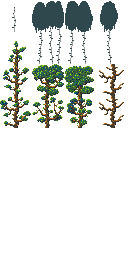
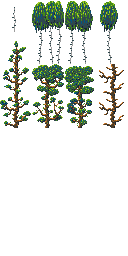
Forest sprite backup

Changed region(s): [[0.25, 0.0, 0.7188, 0.125], [0.7812, 0.0, 0.9375, 0.125]]

diff --git a/lib/game/levels/menu.js b/lib/game/levels/menu.js
@@ -1,6 +1,6 @@
 ig.module( 'game.levels.menu' )
 .requires( 'impact.image' )
 .defines(function(){
-LevelMenu=/*JSON[*/{"entities":[],"layer":[{"name":"bg","width":1,"height":1,"linkWithCollision":false,"visible":1,"tilesetName":"media/gfx/levels/sky.png","repeat":true,"preRender":true,"distance":"1.8","tilesize":32,"foreground":false,"data":[[15]]},{"name":"castle","width":30,"height":6,"linkWithCollision":false,"visible":1,"tilesetName":"media/gfx/levels/artworks.png","repeat":false,"preRender":true,"distance":"1.8","tilesize":32,"foreground":false,"data":[[0,0,0,0,0,0,0,0,0,0,0,0,0,0,0,0,0,0,0,0,0,0,0,0,0,0,0,0,0,0],[0,0,0,0,0,0,0,0,0,0,0,0,0,0,0,0,0,0,0,0,0,0,0,0,0,0,0,0,0,0],[0,0,0,0,0,0,0,0,0,0,0,0,0,0,0,0,0,0,0,0,0,0,0,0,0,0,0,0,0,0],[0,0,0,0,0,0,0,0,0,0,0,0,0,0,0,0,0,0,0,0,0,0,0,0,0,0,0,0,0,0],[0,0,0,0,0,0,0,1,2,3,4,0,0,0,0,0,0,0,0,0,0,0,0,0,0,0,0,0,0,0],[0,0,0,0,0,0,0,0,0,0,0,0,0,0,0,0,0,0,0,0,0,0,0,0,0,0,0,0,0,0]]},{"name":"bg_tree_sky","width":30,"height":6,"linkWithCollision":false,"visible":1,"tilesetName":"media/gfx/levels/sky.png","repeat":true,"preRender":true,"distance":"1.8","tilesize":32,"foreground":false,"data":[[1,1,1,1,1,1,1,1,1,1,1,1,1,1,1,1,1,1,1,1,1,1,1,1,1,1,1,1,1,1],[5,5,6,5,5,6,5,5,6,6,5,6,5,6,5,5,5,6,6,6,5,5,5,5,5,6,5,6,5,5],[15,15,15,15,15,15,15,15,15,15,15,15,15,15,15,15,15,15,15,15,15,15,15,15,15,15,15,15,15,15],[15,15,15,15,15,15,15,15,15,15,15,15,15,15,15,15,15,15,15,15,15,15,15,15,15,15,15,15,15,15],[10,9,9,10,9,10,9,9,9,10,9,10,9,9,9,10,9,9,10,9,9,10,9,9,9,9,10,10,10,9],[13,13,13,13,13,13,13,13,13,13,13,13,13,13,13,13,13,13,13,13,13,13,13,13,13,13,13,13,13,13]]},{"name":"clouds","width":30,"height":6,"linkWithCollision":false,"visible":1,"tilesetName":"media/gfx/levels/sky.png","repeat":false,"preRender":true,"distance":"1.5","tilesize":32,"foreground":false,"data":[[0,0,0,0,0,0,0,0,0,0,0,0,0,0,0,0,0,0,0,0,0,0,0,0,0,0,0,0,0,0],[0,0,0,0,0,0,0,0,0,0,0,0,0,0,0,0,0,0,0,0,0,0,0,0,0,0,0,0,0,0],[0,0,0,0,0,0,3,0,0,0,0,0,0,0,0,0,0,7,8,0,0,0,4,0,0,0,0,0,0,0],[0,7,8,0,0,0,0,0,0,4,0,0,0,0,0,0,0,0,0,0,0,0,0,0,0,0,0,3,0,0],[0,0,0,0,0,0,0,0,0,0,0,0,0,0,0,0,0,0,0,0,0,0,0,0,0,0,0,0,0,0],[0,0,0,0,0,0,0,0,0,0,0,0,0,0,0,0,0,0,0,0,0,0,0,0,0,0,0,0,0,0]]},{"name":"trees_back","width":30,"height":6,"linkWithCollision":false,"visible":true,"tilesetName":"media/gfx/levels/forest_birch.png","repeat":false,"preRender":true,"distance":"1.2","tilesize":32,"foreground":false,"data":[[0,0,0,0,0,0,0,0,0,0,0,0,0,0,0,0,0,0,0,0,0,0,0,0,0,0,0,0,0,0],[0,0,0,0,0,0,0,0,0,0,0,0,0,0,0,0,0,0,0,0,0,0,0,0,0,0,0,0,0,0],[0,0,0,0,0,0,0,0,0,0,0,0,0,0,0,0,0,0,0,0,0,0,0,0,0,0,0,0,0,0],[0,0,0,0,0,0,0,0,0,0,0,0,0,0,0,0,0,0,0,0,0,0,0,0,0,0,0,0,0,0],[0,0,0,5,0,0,0,10,0,0,0,0,0,0,0,0,0,0,0,0,0,0,0,0,0,0,0,0,0,0],[0,0,0,13,10,0,0,14,0,0,0,0,0,0,0,0,0,0,0,0,0,0,0,0,0,0,0,0,0,0]]},{"name":"Trees","width":30,"height":6,"linkWithCollision":false,"visible":1,"tilesetName":"media/gfx/levels/forest_birch.png","repeat":false,"preRender":true,"distance":"0.7","tilesize":32,"foreground":false,"data":[[0,0,0,0,0,0,0,0,0,0,0,0,0,0,0,0,0,0,0,0,0,0,0,0,0,0,0,0,0,0],[0,0,0,0,0,0,0,0,0,0,0,0,0,0,0,0,0,0,0,0,0,0,0,0,0,0,0,0,0,0],[0,0,0,0,0,0,0,0,0,0,0,5,0,0,0,0,0,0,0,0,0,0,0,0,0,0,0,0,0,0],[0,10,0,0,0,0,0,0,0,0,0,9,0,10,0,0,0,0,0,0,0,0,0,0,0,0,0,0,0,0],[0,14,0,0,0,11,0,0,0,0,10,14,0,15,10,0,0,0,0,0,0,0,0,0,0,0,0,0,0,0],[0,16,0,0,0,16,0,0,0,0,14,13,11,16,14,0,0,0,0,0,0,0,0,0,0,0,0,0,0,0]]}]}/*]JSON*/;
-LevelMenuResources=[new ig.Image('media/gfx/levels/sky.png'), new ig.Image('media/gfx/levels/artworks.png'), new ig.Image('media/gfx/levels/sky.png'), new ig.Image('media/gfx/levels/sky.png'), new ig.Image('media/gfx/levels/forest_birch.png'), new ig.Image('media/gfx/levels/forest_birch.png')];
+LevelMenu=/*JSON[*/{"entities":[],"layer":[{"name":"bg","width":1,"height":1,"linkWithCollision":false,"visible":1,"tilesetName":"media/gfx/levels/sky.png","repeat":true,"preRender":true,"distance":"1.8","tilesize":32,"foreground":false,"data":[[15]]},{"name":"castle","width":30,"height":6,"linkWithCollision":false,"visible":1,"tilesetName":"media/gfx/levels/artworks.png","repeat":false,"preRender":true,"distance":"1.8","tilesize":32,"foreground":false,"data":[[0,0,0,0,0,0,0,0,0,0,0,0,0,0,0,0,0,0,0,0,0,0,0,0,0,0,0,0,0,0],[0,0,0,0,0,0,0,0,0,0,0,0,0,0,0,0,0,0,0,0,0,0,0,0,0,0,0,0,0,0],[0,0,0,0,0,0,0,0,0,0,0,0,0,0,0,0,0,0,0,0,0,0,0,0,0,0,0,0,0,0],[0,0,0,0,0,0,0,0,0,0,0,0,0,0,0,0,0,0,0,0,0,0,0,0,0,0,0,0,0,0],[0,0,0,0,0,0,0,1,2,3,4,0,0,0,0,0,0,0,0,0,0,0,0,0,0,0,0,0,0,0],[0,0,0,0,0,0,0,0,0,0,0,0,0,0,0,0,0,0,0,0,0,0,0,0,0,0,0,0,0,0]]},{"name":"bg_tree_sky","width":30,"height":6,"linkWithCollision":false,"visible":1,"tilesetName":"media/gfx/levels/sky.png","repeat":true,"preRender":true,"distance":"1.8","tilesize":32,"foreground":false,"data":[[1,1,1,1,1,1,1,1,1,1,1,1,1,1,1,1,1,1,1,1,1,1,1,1,1,1,1,1,1,1],[5,5,6,5,5,6,5,5,6,6,5,6,5,6,5,5,5,6,6,6,5,5,5,5,5,6,5,6,5,5],[15,15,15,15,15,15,15,15,15,15,15,15,15,15,15,15,15,15,15,15,15,15,15,15,15,15,15,15,15,15],[15,15,15,15,15,15,15,15,15,15,15,15,15,15,15,15,15,15,15,15,15,15,15,15,15,15,15,15,15,15],[10,9,9,10,9,10,9,9,9,10,9,10,9,9,9,10,9,9,10,9,9,10,9,9,9,9,10,10,10,9],[13,13,13,13,13,13,13,13,13,13,13,13,13,13,13,13,13,13,13,13,13,13,13,13,13,13,13,13,13,13]]},{"name":"clouds","width":30,"height":6,"linkWithCollision":false,"visible":1,"tilesetName":"media/gfx/levels/sky.png","repeat":false,"preRender":true,"distance":"1.5","tilesize":32,"foreground":false,"data":[[0,0,0,0,0,0,0,0,0,0,0,0,0,0,0,0,0,0,0,0,0,0,0,0,0,0,0,0,0,0],[0,0,0,0,0,0,0,0,0,0,0,0,0,0,0,0,0,0,0,0,0,0,0,0,0,0,0,0,0,0],[0,0,0,0,0,0,3,0,0,0,0,0,0,0,0,0,0,7,8,0,0,0,4,0,0,0,0,0,0,0],[0,7,8,0,0,0,0,0,0,4,0,0,0,0,0,0,0,0,0,0,0,0,0,0,0,0,0,3,0,0],[0,0,0,0,0,0,0,0,0,0,0,0,0,0,0,0,0,0,0,0,0,0,0,0,0,0,0,0,0,0],[0,0,0,0,0,0,0,0,0,0,0,0,0,0,0,0,0,0,0,0,0,0,0,0,0,0,0,0,0,0]]},{"name":"trees_back","width":30,"height":6,"linkWithCollision":false,"visible":1,"tilesetName":"media/gfx/levels/forest.png","repeat":false,"preRender":true,"distance":"1.2","tilesize":32,"foreground":false,"data":[[0,0,0,0,0,0,0,0,0,0,0,0,0,0,0,0,0,0,0,0,0,0,0,0,0,0,0,0,0,0],[0,0,0,0,0,0,0,0,0,0,0,0,0,0,0,0,0,0,0,0,0,0,0,0,0,0,0,0,0,0],[0,0,0,0,0,0,0,0,0,0,0,0,0,0,0,0,0,0,0,0,0,0,0,0,0,0,0,0,0,0],[0,0,0,0,0,0,0,0,0,0,0,0,0,2,0,10,0,0,0,0,0,0,0,0,0,0,0,0,0,0],[0,0,3,5,0,0,0,10,0,0,5,0,0,6,11,9,0,0,4,3,0,0,0,0,0,0,0,0,0,0],[0,0,7,13,10,0,0,14,4,0,13,10,11,6,9,15,0,0,8,7,0,0,0,0,0,0,0,0,0,0]]},{"name":"Trees","width":30,"height":6,"linkWithCollision":false,"visible":1,"tilesetName":"media/gfx/levels/forest.png","repeat":false,"preRender":true,"distance":"0.7","tilesize":32,"foreground":false,"data":[[0,0,0,0,0,0,0,0,0,0,0,0,0,0,0,0,0,0,0,0,0,0,0,0,0,0,0,0,0,0],[0,0,0,0,0,0,0,0,0,0,0,0,0,0,0,0,0,0,0,0,0,0,0,0,0,0,0,0,0,0],[0,0,0,0,0,0,0,0,0,0,0,5,0,0,0,0,11,0,0,0,0,0,0,0,0,0,0,0,0,0],[0,10,0,0,0,0,0,0,0,0,2,9,0,10,0,0,9,0,5,3,0,0,11,0,0,0,0,0,0,0],[3,14,0,0,0,11,0,0,0,0,6,14,0,15,10,1,15,0,9,7,4,11,9,0,10,0,0,0,0,0],[7,16,0,0,0,16,0,0,0,0,6,13,11,16,14,8,13,0,13,7,8,13,13,0,15,0,0,0,0,0]]}]}/*]JSON*/;
+LevelMenuResources=[new ig.Image('media/gfx/levels/sky.png'), new ig.Image('media/gfx/levels/artworks.png'), new ig.Image('media/gfx/levels/sky.png'), new ig.Image('media/gfx/levels/sky.png'), new ig.Image('media/gfx/levels/forest.png'), new ig.Image('media/gfx/levels/forest.png')];
 });
